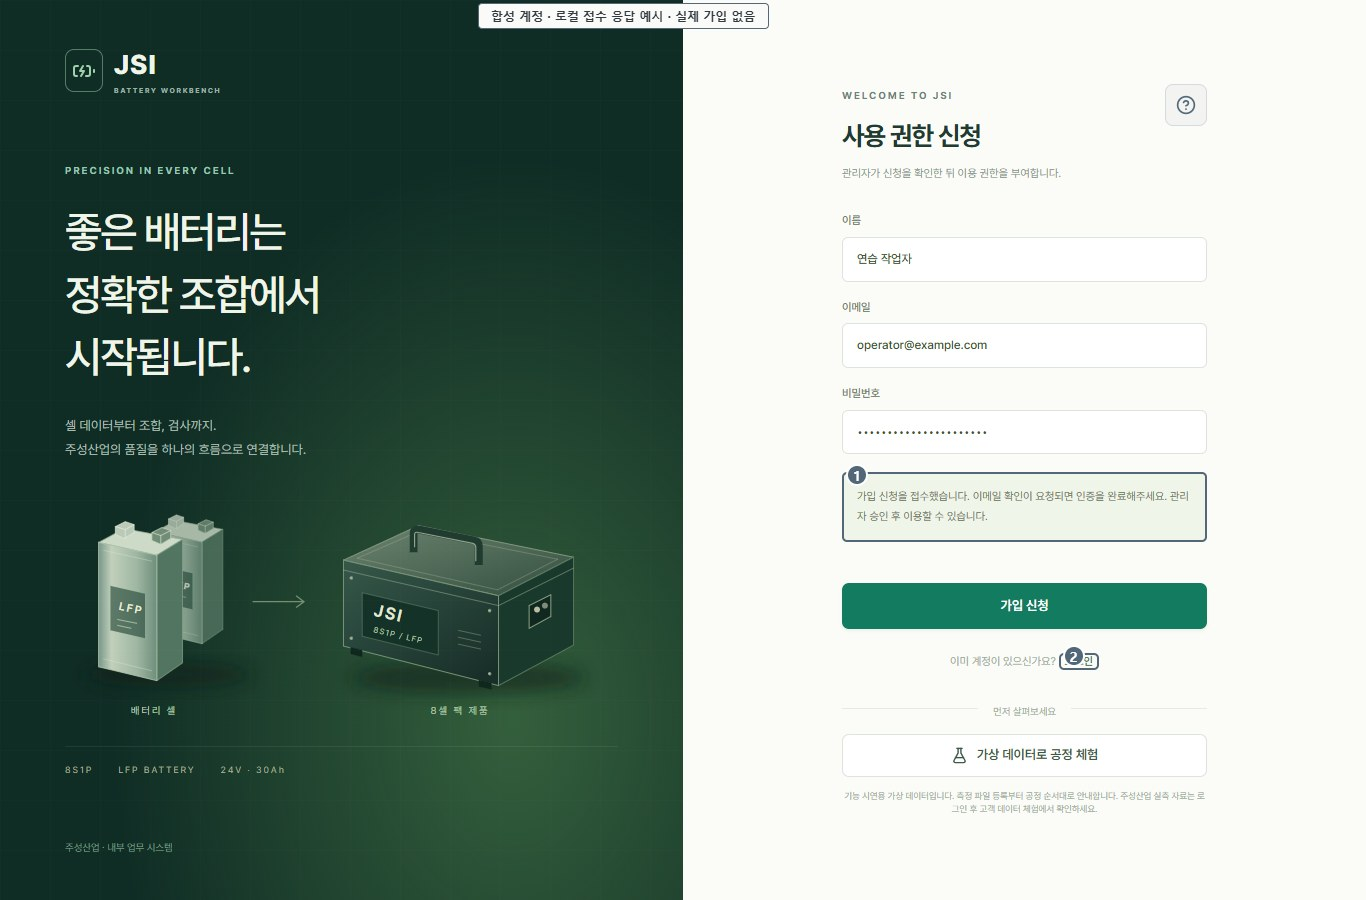
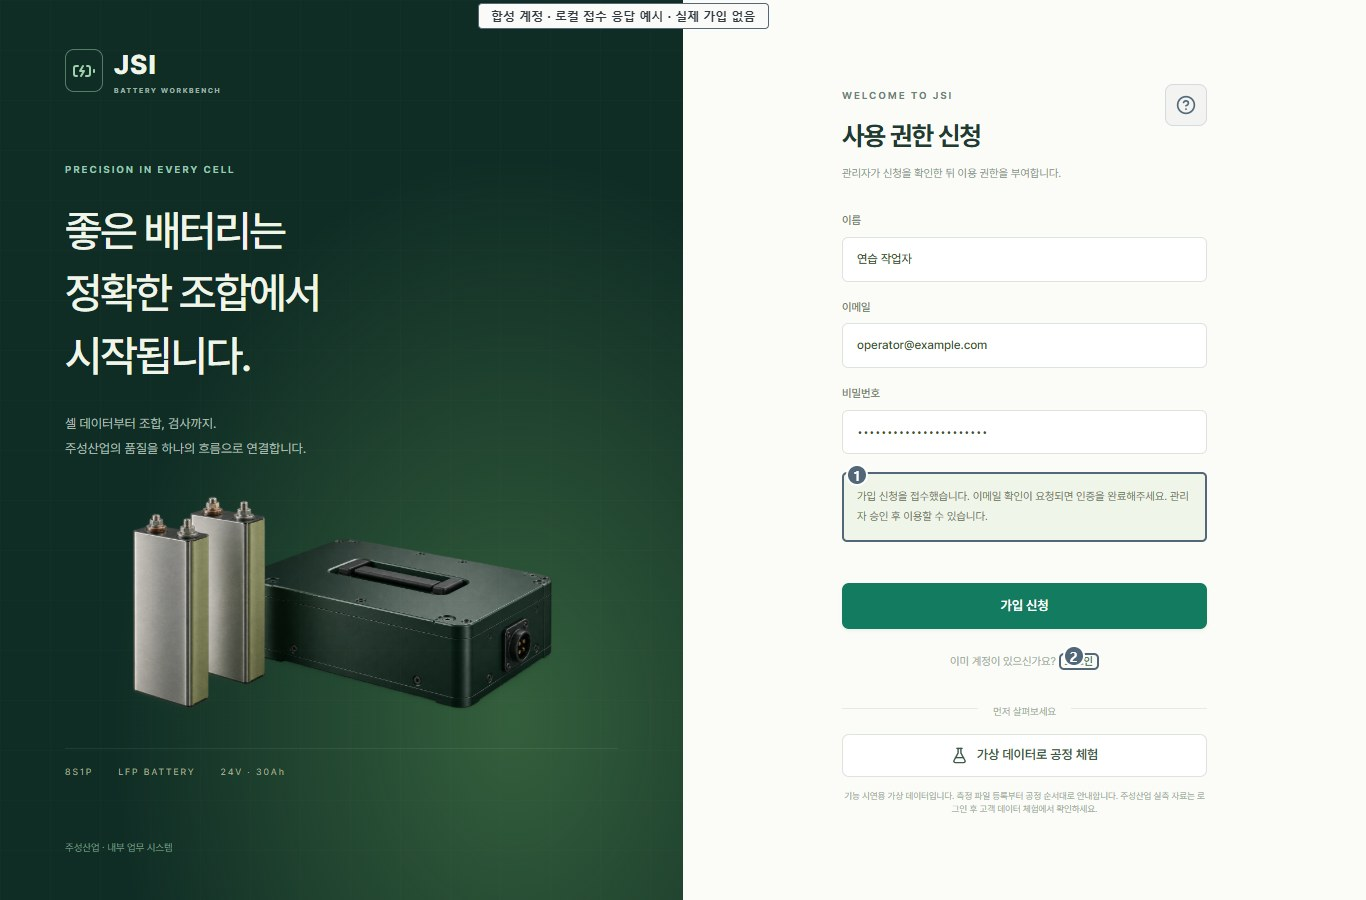
Refine title artwork with unified cell and pack product render

diff --git a/src/CellPackArtwork.tsx b/src/CellPackArtwork.tsx
@@ -1,46 +1,4 @@
-/** Concept illustration: individual LFP cells and an enclosed eight-cell pack. */
+/** Concept product render; not a photograph of a specific customer model. */
 export default function CellPackArtwork(){
- return <svg className="cell-pack-art" viewBox="0 0 560 230" role="img" aria-label="개별 배터리 셀에서 8셀 팩 제품으로 이어지는 모습">
-  <defs>
-   <linearGradient id="cell-metal" x2="1" y2="0"><stop stopColor="#77968b"/><stop offset=".22" stopColor="#c1d0ba"/><stop offset=".65" stopColor="#9fb7a3"/><stop offset="1" stopColor="#6e8e7c"/></linearGradient>
-   <linearGradient id="pack-front" x2=".8" y2="1"><stop stopColor="#36584a"/><stop offset="1" stopColor="#182f29"/></linearGradient>
-   <linearGradient id="pack-top" x2="1" y2="1"><stop stopColor="#6c8470"/><stop offset="1" stopColor="#344f40"/></linearGradient>
-   <filter id="product-shadow" x="-30%" y="-30%" width="170%" height="180%"><feGaussianBlur stdDeviation="9"/></filter>
-   <g id="prismatic-cell">
-    <path d="M0 20 26 6 85 17 59 33Z" fill="#ccdac7" stroke="#91aa92" strokeWidth=".7"/>
-    <path d="M59 33 85 17 85 142 59 160Z" fill="#527562" stroke="#86a18a" strokeWidth=".7"/>
-    <path d="M0 20 59 33 59 160 0 146Z" fill="url(#cell-metal)" stroke="#b6c9ac" strokeWidth=".8"/>
-    <path d="M5 28 54 39M5 138 54 150" stroke="#e1e9d6" strokeOpacity=".35"/>
-    <path d="M17 12v-8l10-5 9 3v8l-10 6Z" fill="#bacab9" stroke="#e0e8d4" strokeWidth=".7"/>
-    <path d="M54 18v-8l10-5 9 3v8l-10 6Z" fill="#718d78" stroke="#c3d3bc" strokeWidth=".7"/>
-    <path d="m17 4 10 3 9-5M27 7v9M54 10l9 3 10-5M63 13v9" fill="none" stroke="#edf0da" strokeOpacity=".6"/>
-    <path d="m12 64 35 8v45l-35-8Z" fill="#284a3a" fillOpacity=".65"/>
-    <text x="20" y="88" transform="rotate(12 20 88)" fill="#e5ebd6" fontSize="11" fontWeight="600" letterSpacing="2">LFP</text>
-    <path d="m19 98 20 4m-20 2 14 3" stroke="#a6bca1" strokeWidth="1"/>
-   </g>
-  </defs>
-  <ellipse cx="104" cy="182" rx="87" ry="13" fill="#071e18" opacity=".55" filter="url(#product-shadow)"/>
-  <ellipse cx="408" cy="185" rx="119" ry="16" fill="#071e18" opacity=".6" filter="url(#product-shadow)"/>
-  <use href="#prismatic-cell" transform="translate(91 21) scale(.81)" opacity=".8"/>
-  <use href="#prismatic-cell" transform="translate(34 28)"/>
-  <path d="M190 108h52m-8-6 8 6-8 6" fill="none" stroke="#a5ba96" strokeWidth="1.3" opacity=".65"/>
-  <g strokeLinejoin="round">
-   <path d="M282 66 358 31 515 63 439 102Z" fill="url(#pack-top)" stroke="#82967b"/>
-   <path d="M439 102 515 63 515 152 439 193Z" fill="#19392d" stroke="#58765c"/>
-   <path d="M282 66 439 102 439 193 282 153Z" fill="url(#pack-front)" stroke="#789276"/>
-   <path d="M282 76 439 112 515 74" fill="none" stroke="#a3b296" strokeOpacity=".5"/>
-   <path d="m296 64 62-27 141 28-61 31Z" fill="none" stroke="#a8b597" strokeOpacity=".35"/>
-   <path d="M353 58V39q0-5 6-4l55 11q5 1 5 6v19" fill="none" stroke="#203b30" strokeWidth="8"/>
-   <path d="M354 53V40q0-3 4-2l55 11q3 1 3 4v14" fill="none" stroke="#90a28a" strokeWidth="1.2"/>
-   <path d="m301 99 77 18v45l-77-19Z" fill="#153228" stroke="#617e65" strokeWidth=".6"/>
-   <text x="312" y="122" transform="rotate(13 312 122)" fill="#e4e9d6" fontSize="17" fontWeight="650" letterSpacing="2">JSI</text>
-   <text x="312" y="139" transform="rotate(13 312 139)" fill="#b7c6a9" fontSize="8" letterSpacing="1.3">8S1P / LFP</text>
-   <path d="m398 137 23 5m-23 2 23 5m-23 2 23 5" stroke="#82977c" strokeWidth="1" opacity=".55"/>
-   <path d="m470 112 22-11v22l-22 12Z" fill="#10281f" stroke="#8ba082"/>
-   <circle cx="478" cy="116" r="3" fill="#b8bca0"/><circle cx="486" cy="112" r="3" fill="#7d8d78"/>
-   {[ [290,84],[430,117],[290,145],[430,181] ].map(([x,y])=><circle key={x+','+y} cx={x} cy={y} r="1.6" fill="#9dac91"/>)}
-   <path d="m289 154 12 3v7l-12-3Zm130 33 13 3v7l-13-3Z" fill="#10271e"/>
-  </g>
-  <g fill="#b1c5ab" fontSize="10" letterSpacing="2"><text x="90" y="222" textAnchor="middle">배터리 셀</text><text x="400" y="222" textAnchor="middle">8셀 팩 제품</text></g>
- </svg>;
+ return <img className="cell-pack-art" src={`${import.meta.env.BASE_URL}brand/cell-pack-studio.png`} alt="배터리 셀과 완성된 8셀 팩 제품의 개념 이미지" width="1920" height="800" decoding="async" fetchPriority="high"/>;
 }
